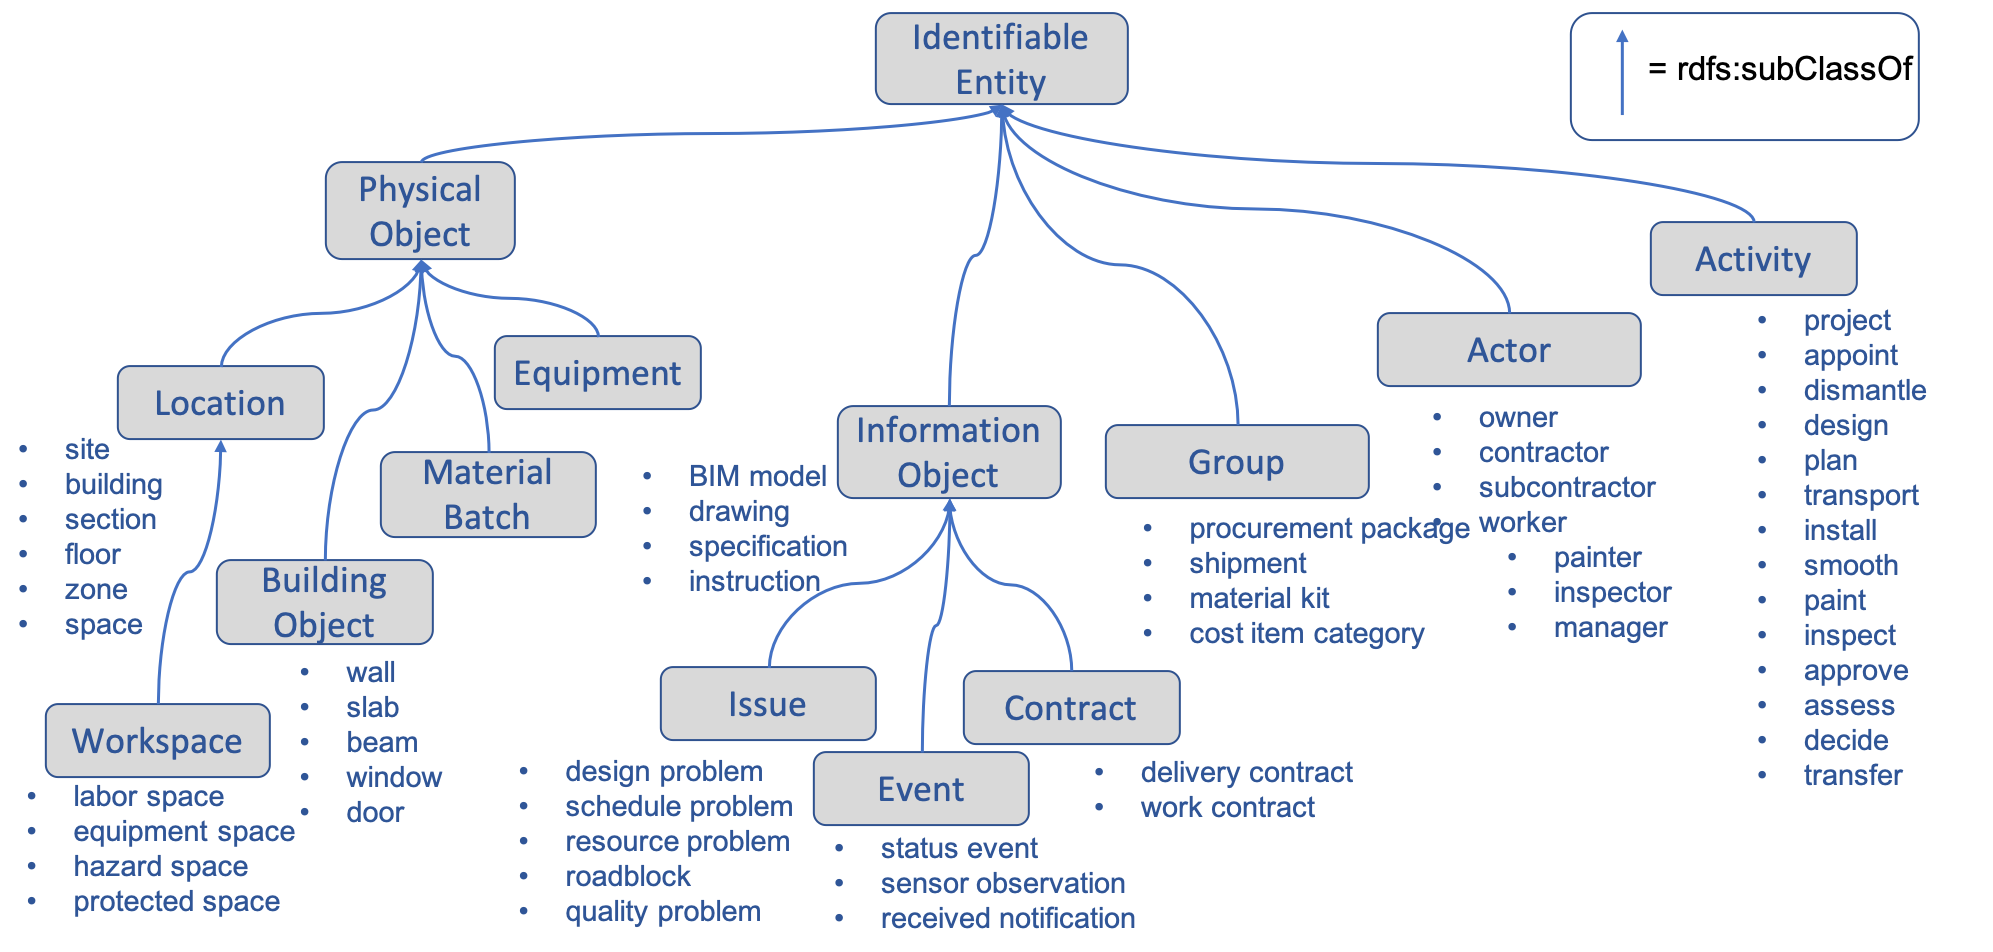
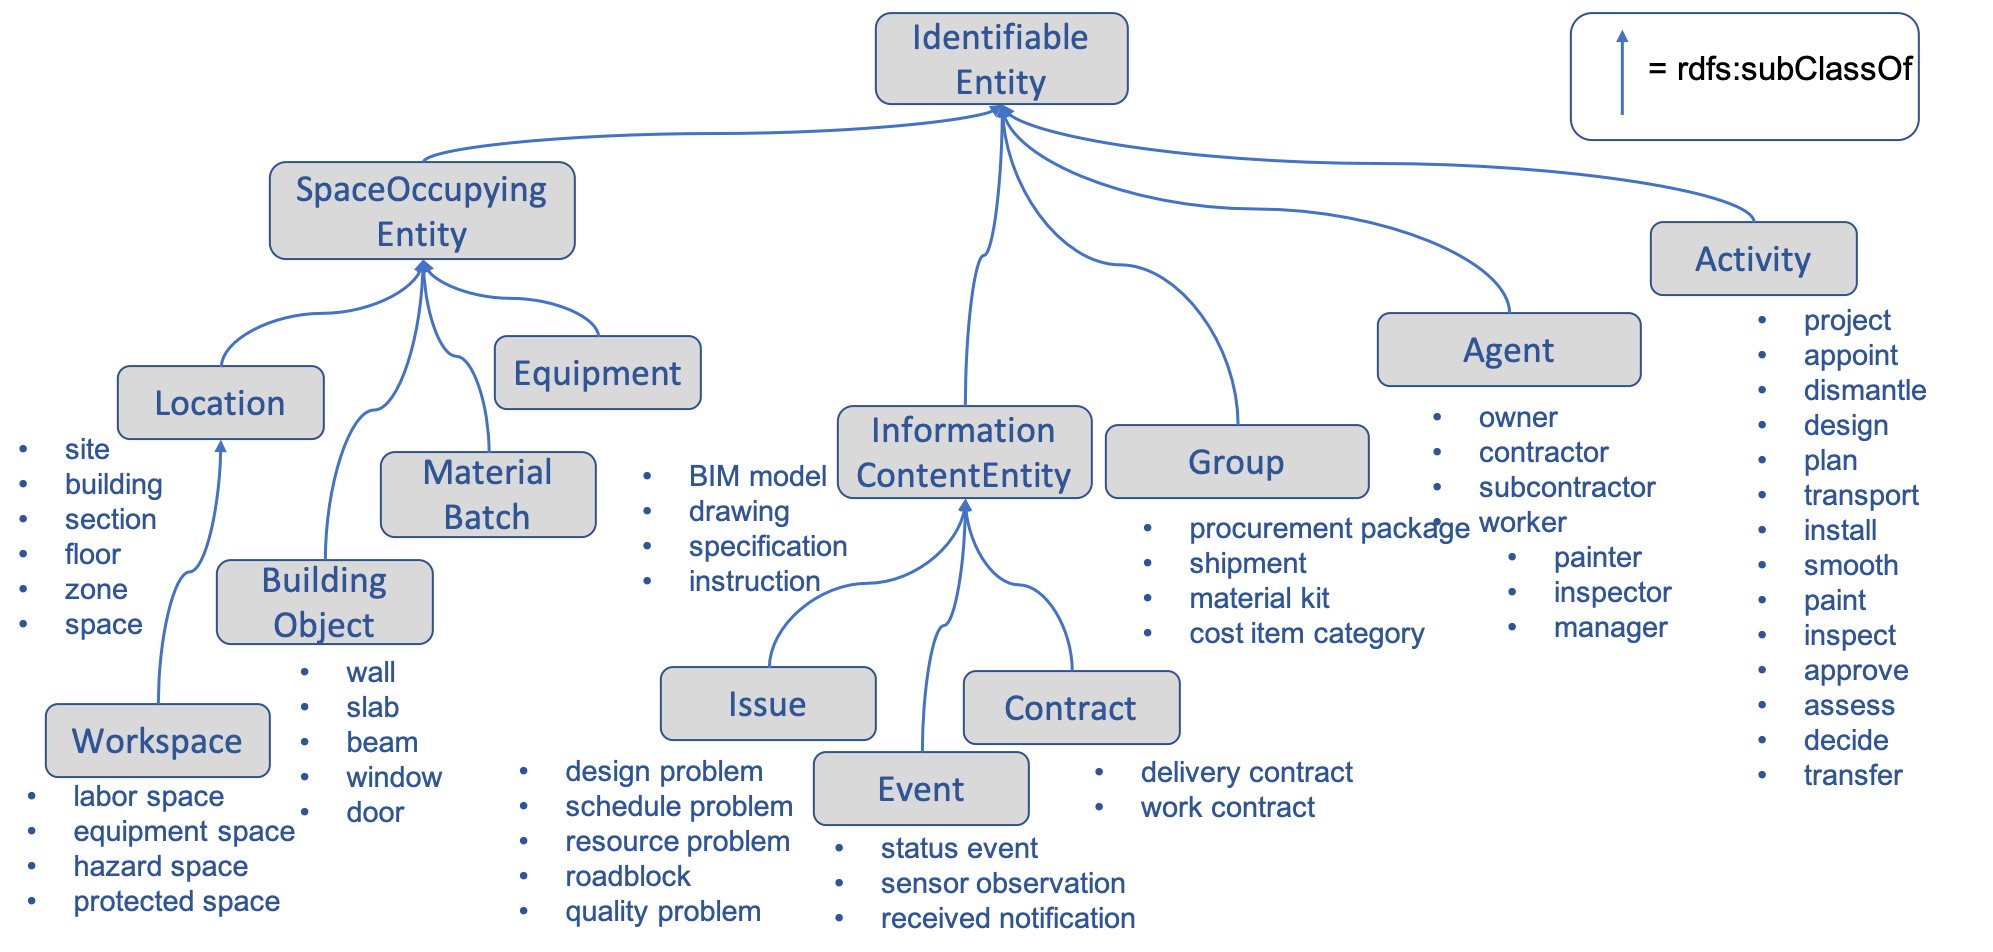
Renaming (SpaceOccypyingEntities, etc.)

diff --git a/index.html b/index.html
@@ -229,8 +229,9 @@ external ontologies (such as BIM models represented in ifcOWL or provenance repr
 	<ul>
 	  <li>All objects can be decomposed into <em>parts</em>.</li>
 	  <li>The parts of activities are called <em>subactivities</em>.</li>
-	  <li>Information objects are <em>about</em> other identifiable objects.</li>
+	  <li>Information entities are <em>about</em> other identifiable objects.</li>
 	  <li>Groups can contain any identifiable objects as their <em>members</em>.</li>
+	  <li>Agents can own <em>assets</em>.</li>
 	</ul>
       </td>
       <td>
@@ -242,10 +243,11 @@ external ontologies (such as BIM models represented in ifcOWL or provenance repr
 	<p>Activities are related to several different kinds of ingredients (often called flows) that have been studied
 	and identified in the field of
 	lean construction. The flows can be classified into transformed objects, material batches, equipment, labor crews, workspaces,
-	information objects, and environmental conditions, and each activity can have several flows in each of these categories. Activities
-	require that the relevant ingredients are in a 
-	proper state before the execution (preconditions) or during it (such as resource reservations). Moreover, activities transform
-	the state of some of the ingredients as the result of their execution (effects). </p>
+	information objects, and environmental conditions, and each activity can have several flows in each of these
+	categories. To be executable an activity requires that its ingredients are in a 
+	proper state before the execution (preconditions) or during it (e.g., resource reservations). Moreover, the
+	activity transforms the state of some of the ingredients as the result of its execution (effects) - this being
+	the purpose of executing the activity in the first place. </p>
 
 	<p>
 	An essential goal is to be able to link
@@ -369,5 +371,5 @@ external ontologies (such as BIM models represented in ifcOWL or provenance repr
     
 <hr>
 <address></address>
-<!-- hhmts start -->Last modified: Fri Mar  6 17:02:26 EET 2020 <!-- hhmts end -->
+<!-- hhmts start -->Last modified: Mon Mar  9 17:43:29 EET 2020 <!-- hhmts end -->
 </body> </html>
